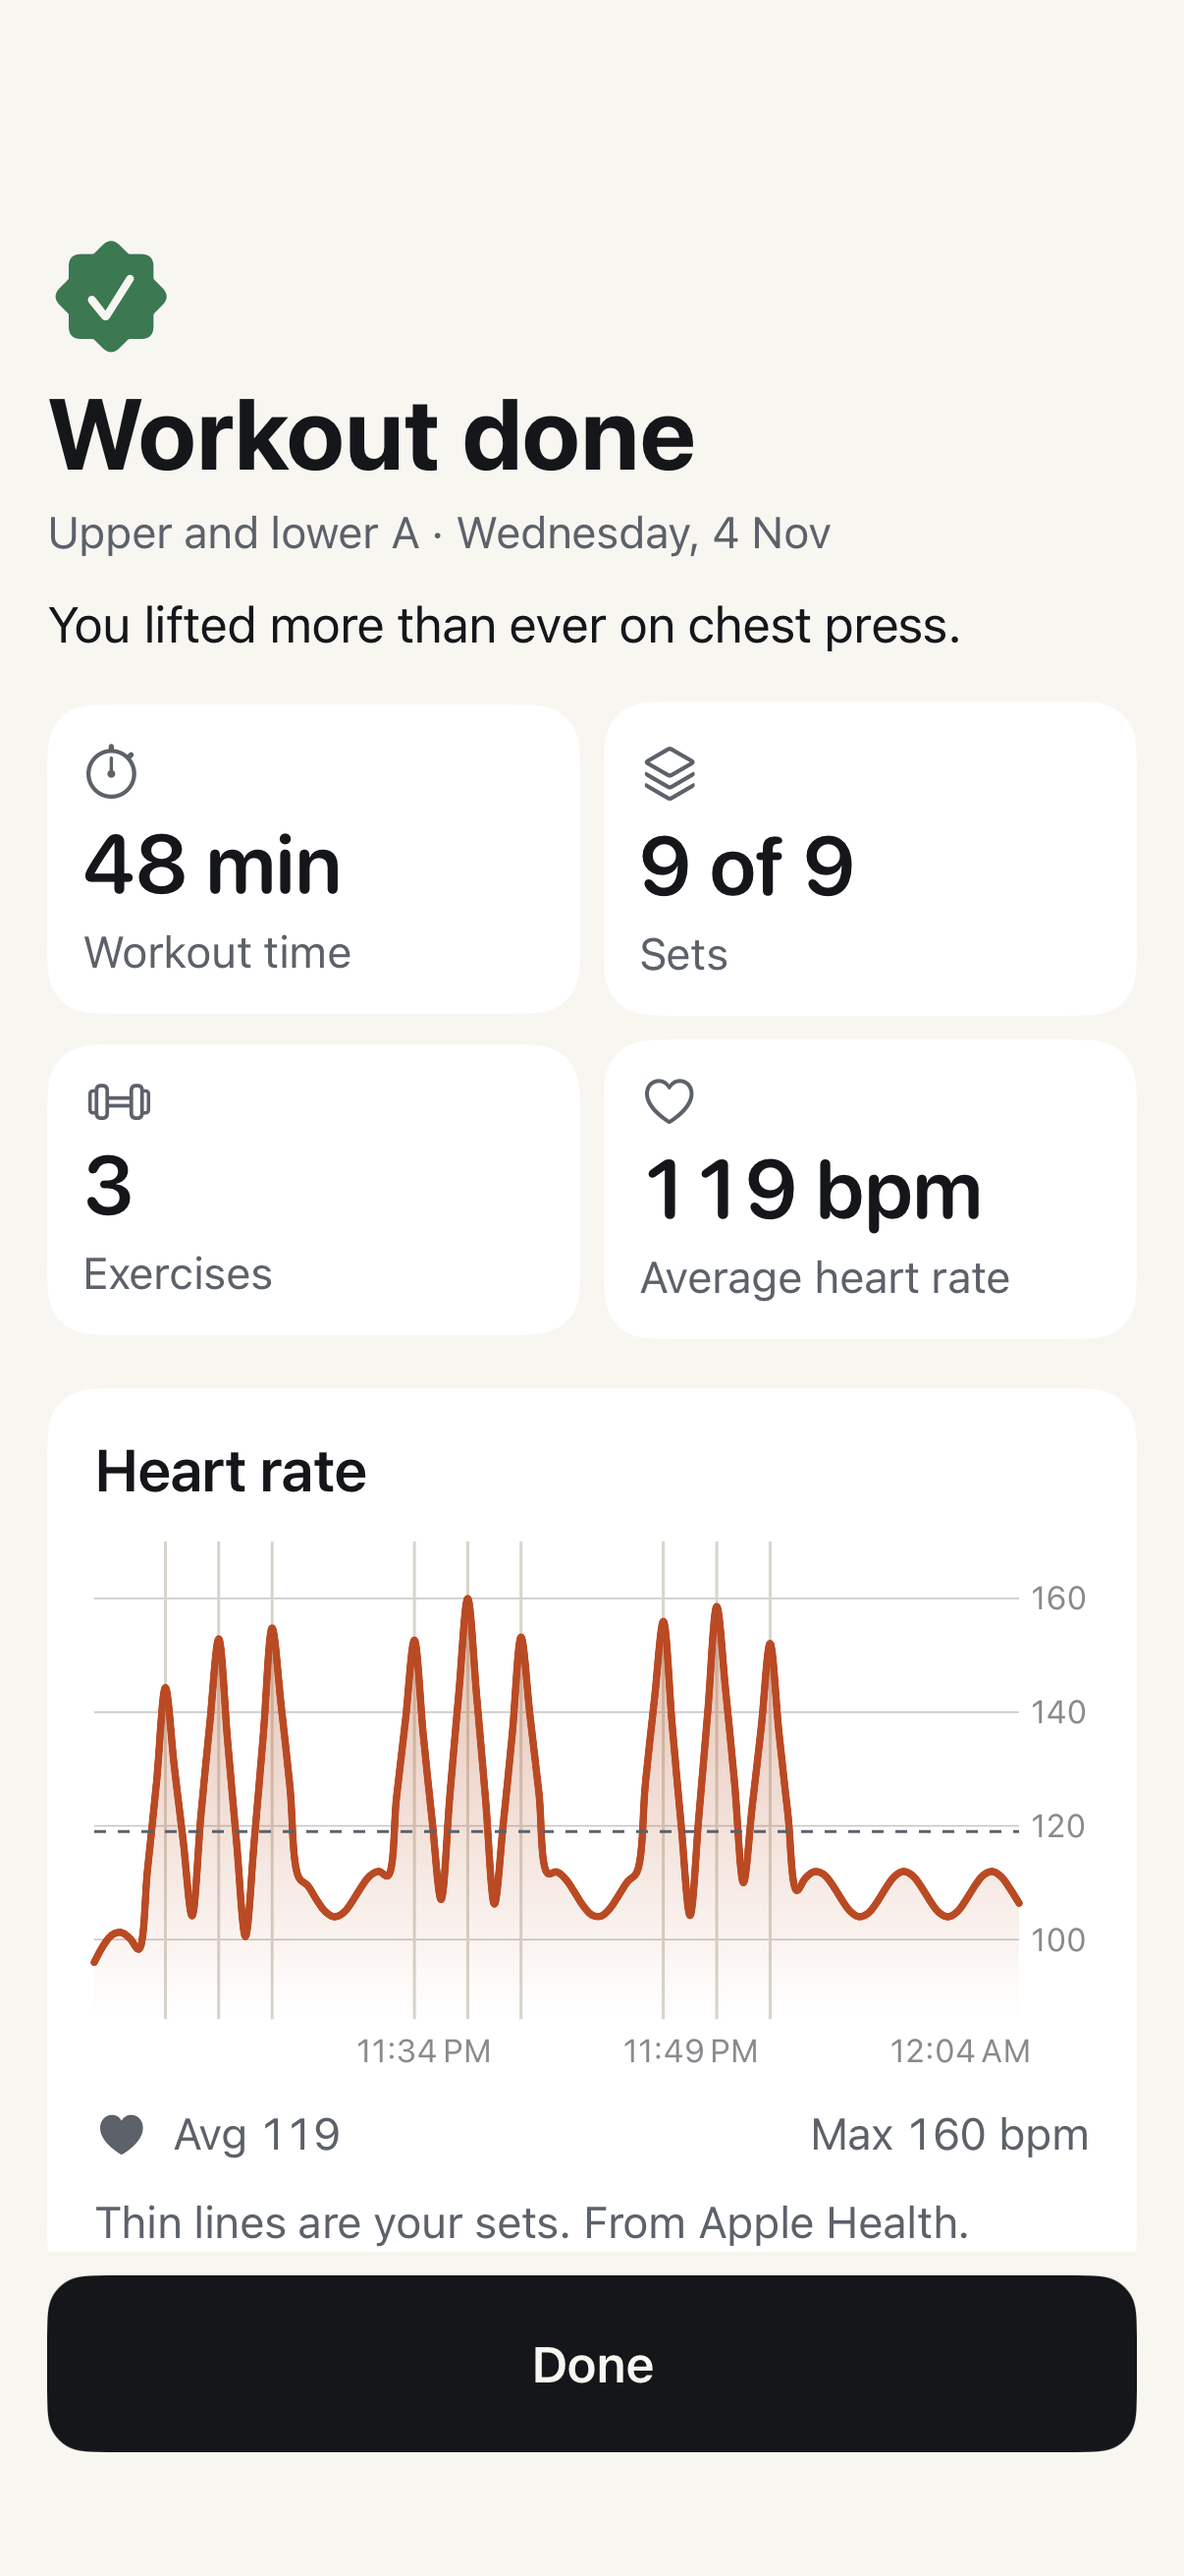
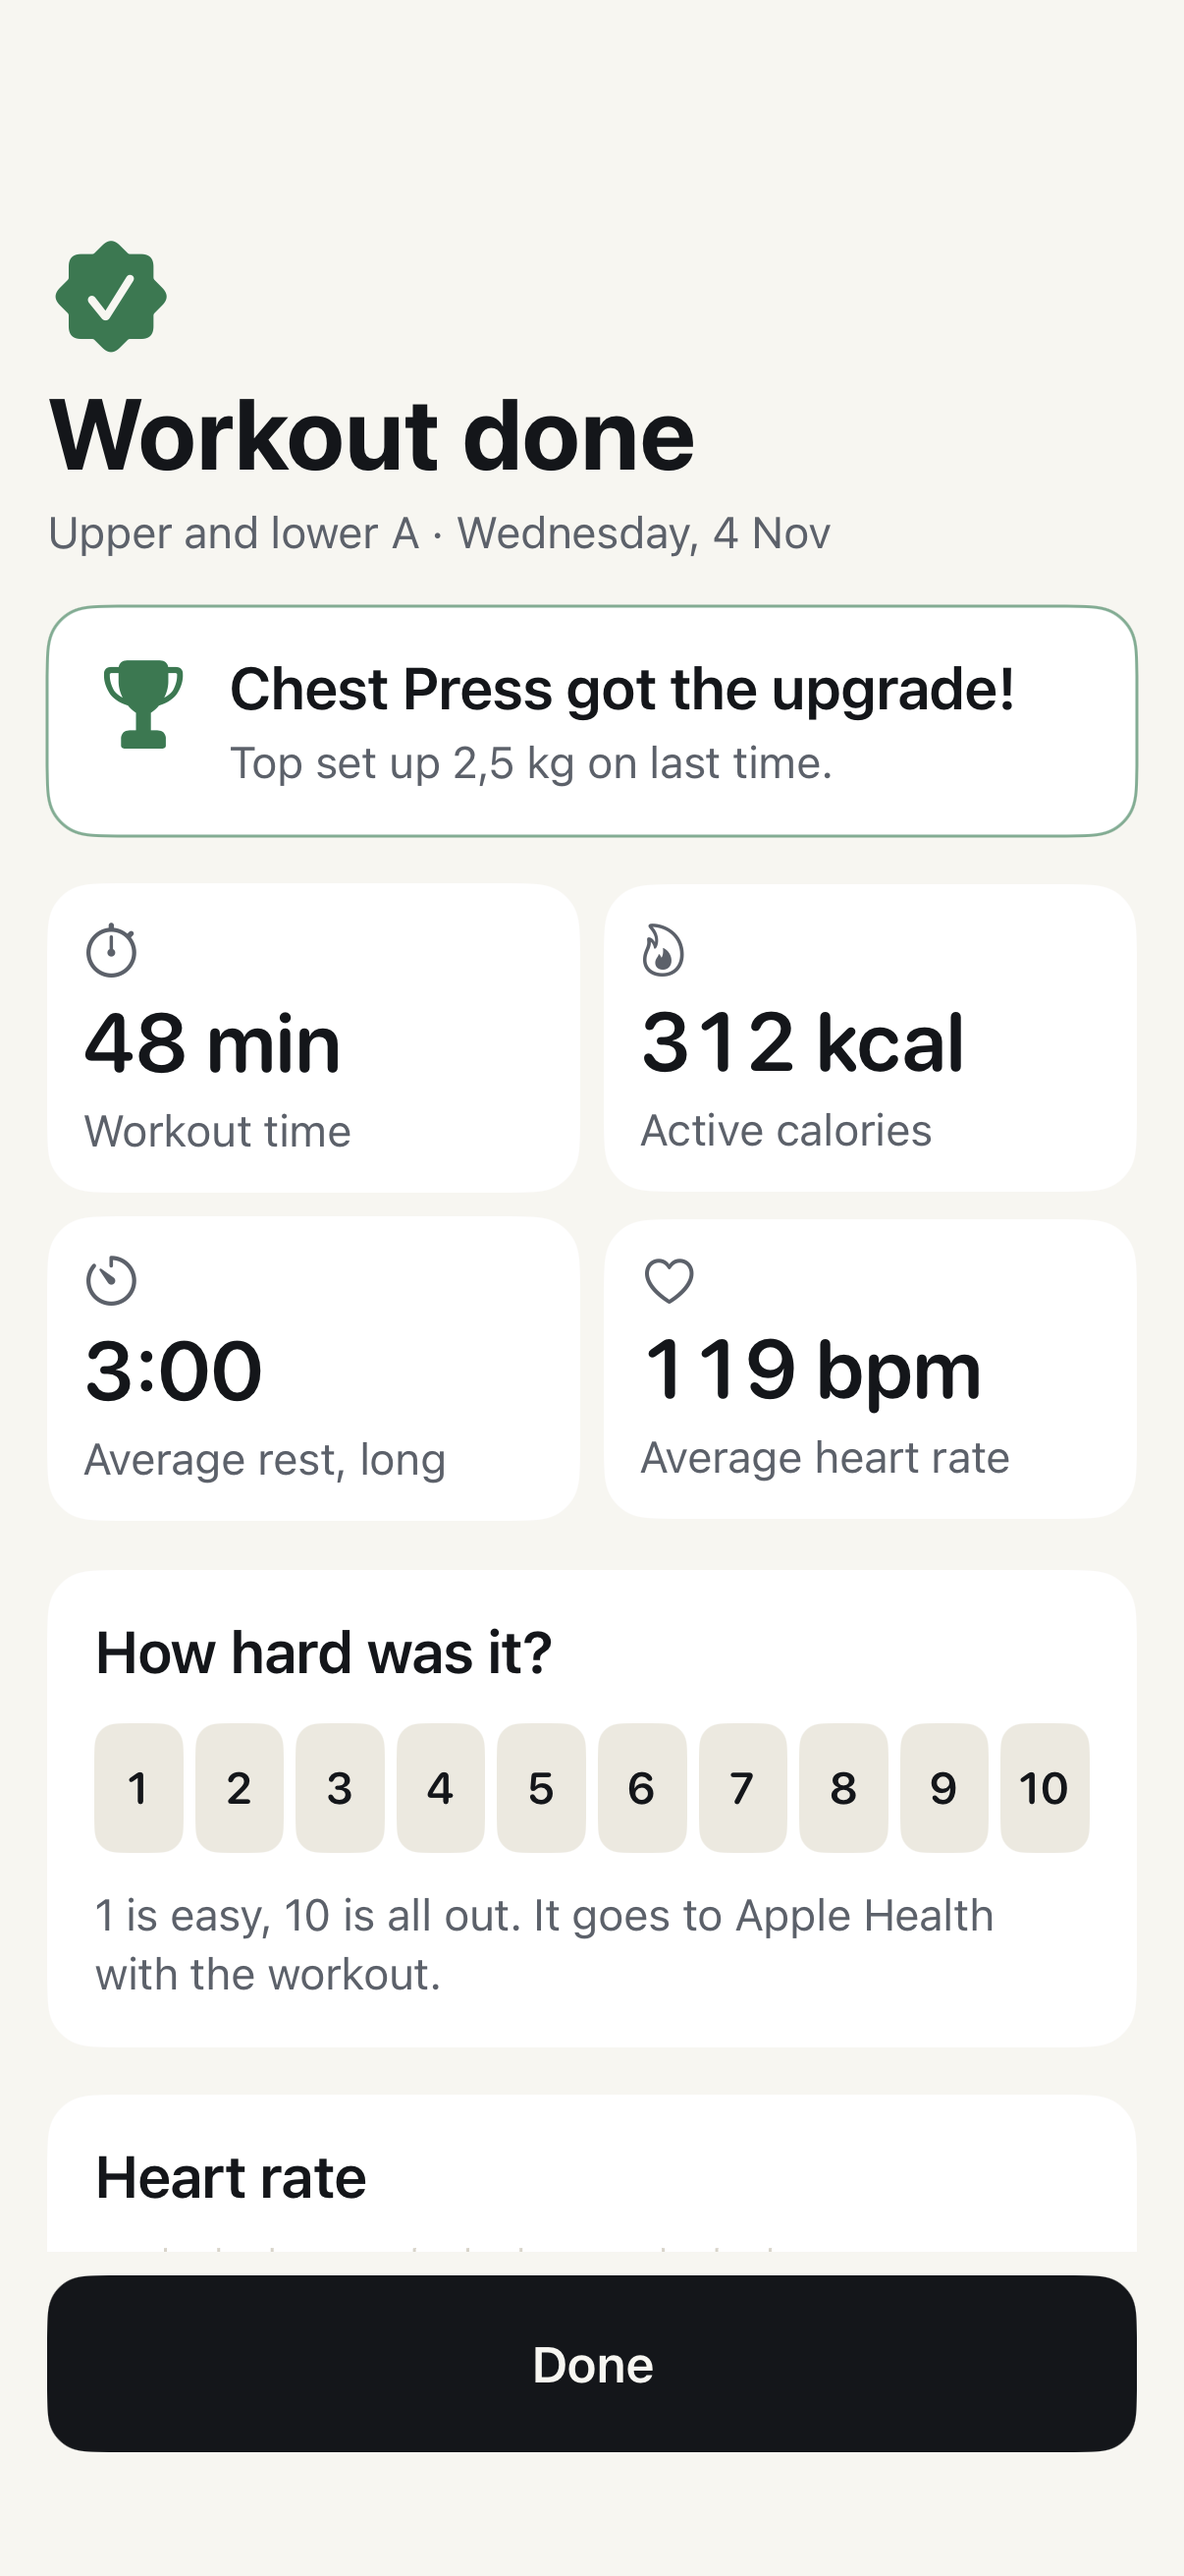
Clearer highlight detail and refreshed summary previews
Claude-Session: https://claude.ai/code/session_01KddS6BxGxmxpT8M4111t9F

diff --git a/Snapset/WorkoutSummary.swift b/Snapset/WorkoutSummary.swift
@@ -77,7 +77,7 @@ struct WorkoutSummary: Identifiable {
     var highlight: (title: String, detail: String) {
         let gain = { (result: ExerciseResult) in result.topKg - (result.lastTopKg ?? result.topKg) }
         if let best = newBests.max(by: { gain($0) < gain($1) }) {
-            let detail = gain(best) > 0 ? "Top set up \(Self.kg(gain(best))) on last time." : "Heavier than ever."
+            let detail = gain(best) > 0 ? "Top set \(Self.kg(gain(best))) heavier than last time." : "Heavier than ever."
             return ("\(best.name) got the upgrade!", detail)
         }
         if let up = goingUp.first, let next = up.nextKg {
